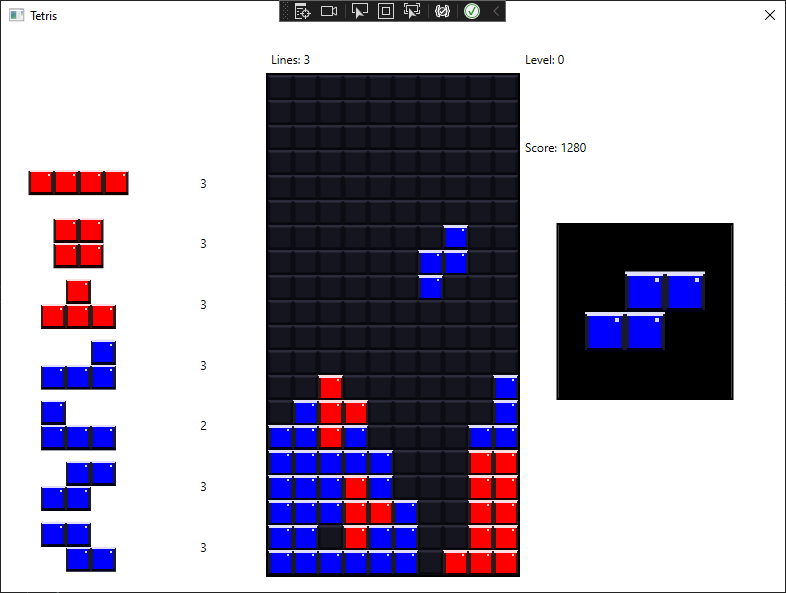
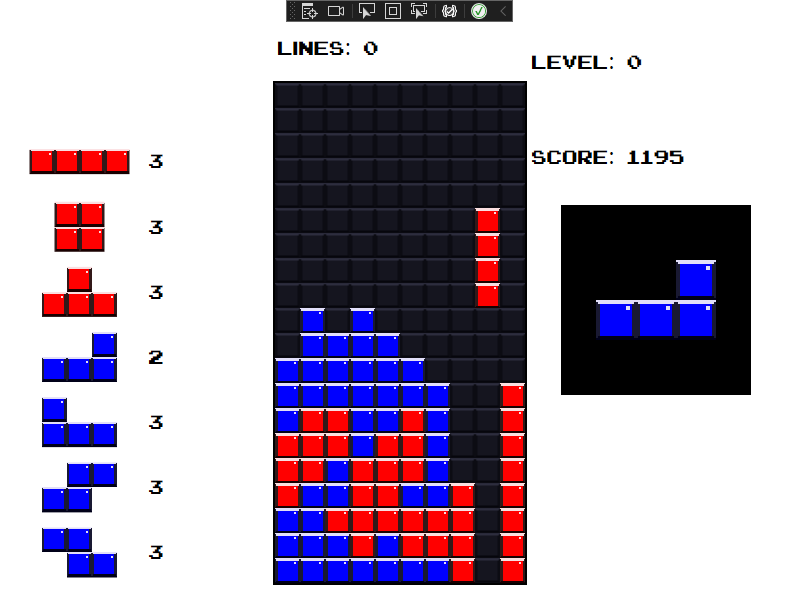
New font
Added a custom Tetris-style font, fixed minor bug with piece counting

diff --git a/MainWindow.xaml b/MainWindow.xaml
@@ -1,4 +1,4 @@
-<Window x:Class="WPFTris.MainWindow"
+<Window x:Name="TetrisWindow" x:Class="WPFTris.MainWindow"
         xmlns="http://schemas.microsoft.com/winfx/2006/xaml/presentation"
         xmlns:x="http://schemas.microsoft.com/winfx/2006/xaml"
         xmlns:d="http://schemas.microsoft.com/expression/blend/2008"
@@ -7,10 +7,16 @@
         xmlns:local="clr-namespace:WPFTris"
         mc:Ignorable="d"
         Title="Tetris" Height="600" Width="800" ResizeMode="NoResize"
-        KeyDown="Window_KeyDown" Closed="Window_Closed" KeyUp="Window_KeyUp">
+        KeyDown="Window_KeyDown" Closed="Window_Closed" KeyUp="Window_KeyUp" WindowStyle="None" WindowStartupLocation="CenterScreen">
     <Window.Resources>
         <Style x:Key="BaseSquare" TargetType="FrameworkElement">
             <Setter Property="Width" Value="{Binding RelativeSource={RelativeSource Mode=Self},Path=ActualHeight}"/>
+        </Style>
+        <Style x:Key="InfoLabel" TargetType="Label">
+            <Setter Property="FontFamily" Value="{StaticResource PTYPE}"/>
+            <Setter Property="HorizontalAlignment" Value="Left"/>
+            <Setter Property="VerticalAlignment" Value="Center"/>
+            <Setter Property="FontSize" Value="24"/>
         </Style>
     </Window.Resources>
     
@@ -42,12 +48,12 @@
                 <RowDefinition Height="Auto"/>
             </Grid.RowDefinitions>
 
-            <Label Grid.Column="0" Name="TotalLinesDisplay"></Label>
+            <Label Grid.Column="0" Name="TotalLinesDisplay" Content="TEST" Style="{StaticResource InfoLabel}"></Label>
             
             <Border Grid.Row="1" BorderBrush="Black" BorderThickness="2">
                 <controls:FieldView x:Name="FieldView" Grid.Row="1"
                                 TileSize="25" WidthInTiles="10" HeightInTiles="20"
-                                TileOverlay="img/tile_overlay.png" BackgroundTile="img/tile_background.png"
+                                TileOverlay="Resources/tile_overlay.png" BackgroundTile="Resources/tile_background.png"
                                 LineClearFadeOut="1000"/>
             </Border>
         </Grid>
@@ -65,10 +71,15 @@
                     <RowDefinition/>
                 </Grid.RowDefinitions>
 
-                <Label Name="LevelLabel" Grid.Row="0">
+                <Label Name="LevelLabel"
+                       Grid.Row="0"
+                       Style="{StaticResource InfoLabel}">
                     
                 </Label>
-                <Label Name="ScoreLabel" Grid.Row="1">
+                <Label Name="ScoreLabel"
+                       Content="Test"
+                       Grid.Row="1"
+                       Style="{StaticResource InfoLabel}">
 
                 </Label>
             </Grid>
@@ -77,7 +88,7 @@
                 <Viewbox Name="NextPieceView" Margin="0" Stretch="None" HorizontalAlignment="Center" VerticalAlignment="Center">
                     <controls:FieldView x:Name="MarkupPieceDisplay"
                         TileSize="40" WidthInTiles="4" HeightInTiles="4"
-                        TileOverlay="img/tile_overlay.png" BackgroundTile="img/tile_black.png"/>
+                        TileOverlay="Resources/tile_overlay.png" BackgroundTile="Resources/tile_black.png"/>
                 </Viewbox>
             </Border>
         </Grid>

diff --git a/App.xaml b/App.xaml
@@ -4,6 +4,6 @@
              xmlns:local="clr-namespace:WPFTris"
              StartupUri="MainWindow.xaml">
     <Application.Resources>
-         
+        <FontFamily x:Key="PTYPE">pack://application:,,,/Resources/#PTYPE</FontFamily>
     </Application.Resources>
 </Application>

diff --git a/MainWindow.xaml.cs b/MainWindow.xaml.cs
@@ -60,14 +60,25 @@ namespace WPFTris
             g.PieceDrop += _NewPiece;
             g.LineClear += _LineClear;
             g.PieceMove += _DrawFieldLocal;
-            g.Loss += (ITetris t) => { Dispatcher.BeginInvoke(_DrawField); };
+            g.Loss += _ResetGame;
             FieldView.LineClearAnimCompleted += _Resume;
 
-            LevelLabel.Content = $"Level: {g.Level}";
-            ScoreLabel.Content = $"Score: {g.Score}";
+            _ResetCounters();
+            
 
             g.Start();
             c.Start();
+        }
+
+        private void _ResetCounters()
+        {
+            LevelLabel.Content = $"Level: {g.Level}";
+            ScoreLabel.Content = $"Score: {g.Score}";
+            TotalLinesDisplay.Content = $"Lines: {g.TotalLines}";
+            foreach (Label l in pieceCount)
+            {
+                l.Content = 0;
+            }
         }
 
         private void _FillPieceStats()
@@ -80,10 +91,7 @@ namespace WPFTris
                 pieceCount[pInt] = new Label
                 {
                     Content = "0",
-                    HorizontalAlignment = HorizontalAlignment.Center,
-                    VerticalAlignment = VerticalAlignment.Center,
-                    HorizontalContentAlignment = HorizontalAlignment.Center,
-                    VerticalContentAlignment = VerticalAlignment.Center,
+                    Style = Resources["InfoLabel"] as Style,
                 };
                 pieceDisplays[pInt].Small.HorizontalAlignment = HorizontalAlignment.Center;
                 pieceDisplays[pInt].Small.VerticalAlignment = VerticalAlignment.Center;
@@ -121,8 +129,8 @@ namespace WPFTris
             bottomRight = topLeft + bottomRight + new Point<int>(1,1);
             FieldView f = new();
             f.TileSize = MarkupPieceDisplay.TileSize;
-            f.TileOverlay = @"img/tile_overlay.png";
-            f.BackgroundTile = @"img/tile_transparent.png";
+            f.TileOverlay = @"Resources/tile_overlay.png";
+            f.BackgroundTile = @"Resources/tile_transparent.png";
             f.WidthInTiles = bottomRight.x;
             f.HeightInTiles = bottomRight.y;
             foreach (var p in piece)
@@ -174,7 +182,7 @@ namespace WPFTris
             Dispatcher.BeginInvoke(_DrawField);
             Dispatcher.BeginInvoke(_DisplayNext, g.NextPiece.name);
             Dispatcher.BeginInvoke(() => { ScoreLabel.Content = $"Score: {g.Score}"; });
-            Dispatcher.BeginInvoke(() => { pieceCount[p.name].Content = g.GetPieceCount(p.name).ToString(); });
+            Dispatcher.BeginInvoke(() => { pieceCount[p.name].Content = g.GetPieceCount(p.name); });
         }
 
         private void _LineClear(ITetris t, int[] lines)
@@ -187,6 +195,12 @@ namespace WPFTris
             {
                 Dispatcher.BeginInvoke(() => { FieldView.LineClear(line); });
             }
+        }
+
+        private void _ResetGame(ITetris t)
+        {
+            Dispatcher.BeginInvoke(_DrawField);
+            Dispatcher.BeginInvoke(_ResetCounters);
         }
 
         private void _Resume(object? sender, EventArgs e)
@@ -248,6 +262,10 @@ namespace WPFTris
 
         private void Window_KeyDown(object sender, KeyEventArgs e)
         {
+            if (e.Key == Key.Escape)
+            {
+                Close();
+            }
             Action<ITetris.Move> kh;
             if (Keyboard.Modifiers == ModifierKeys.Shift)
             {

diff --git a/Game/Game.cs b/Game/Game.cs
@@ -300,7 +300,7 @@ namespace WPFTris.Game
             {
                 currPoint.y -= 1;
             }
-            _SetPiece((int)curr.name);
+            _SetPiece(curr.name);
             if (sw)
             {
                 linesWereCleared = _CheckLines();
@@ -310,11 +310,12 @@ namespace WPFTris.Game
                     _Init();
                     return;
                 }
-                totalPieces[(int)curr.name]++;
+                totalPieces[curr.name]++;
                 currPoint.Copy(basePoint);
+                PolyminoeFactory.Piece p = curr;
                 curr = next;
                 next = factory.GetPiece();
-                PieceDrop?.Invoke(this, curr);
+                PieceDrop?.Invoke(this, p);
                 if (linesWereCleared) LineClear?.Invoke(this, clearedLines.ToArray());
             }
             else

diff --git a/UserInteraction/FieldView.xaml.cs b/UserInteraction/FieldView.xaml.cs
@@ -199,7 +199,7 @@ namespace WPFTris.UserInteraction
             {
                 Trace.WriteLine($"{uri} doesn't exist, or you are currently inside of Designer.\n" +
                     $"Falling back on error sprite.");
-                inf = Application.GetResourceStream(new Uri(@"pack://application:,,,/WPFTris;component/img/error_sprite.png"));
+                inf = Application.GetResourceStream(new Uri(@"pack://application:,,,/WPFTris;component/Resources/error_sprite.png"));
             }
             BitmapImage image = new();
             image.BeginInit();
